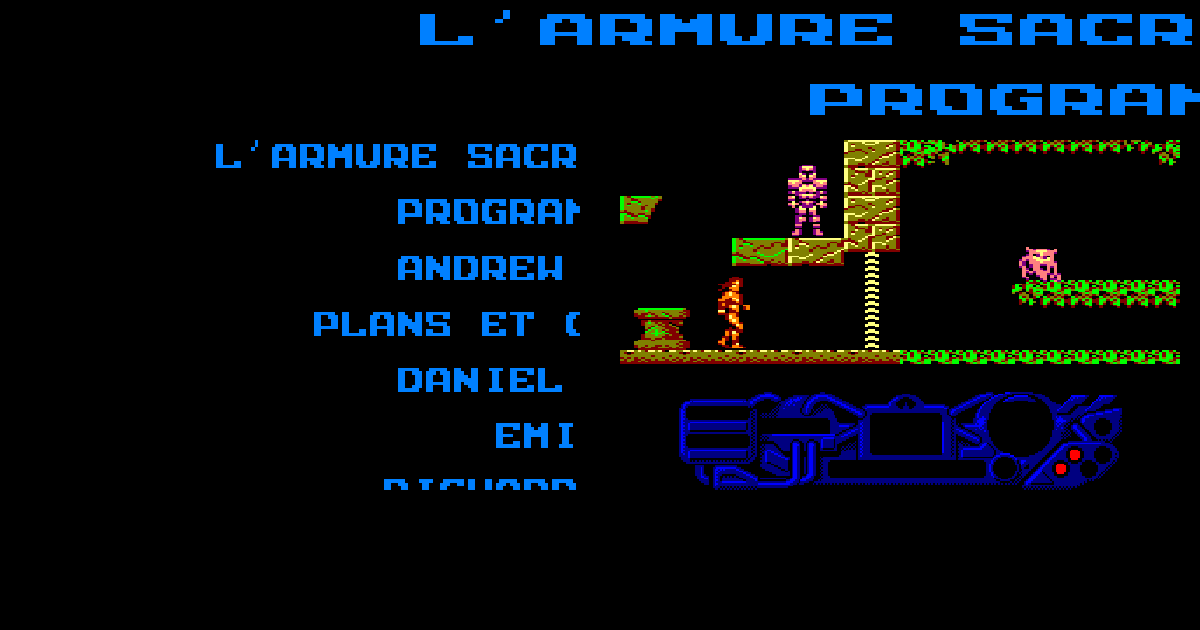
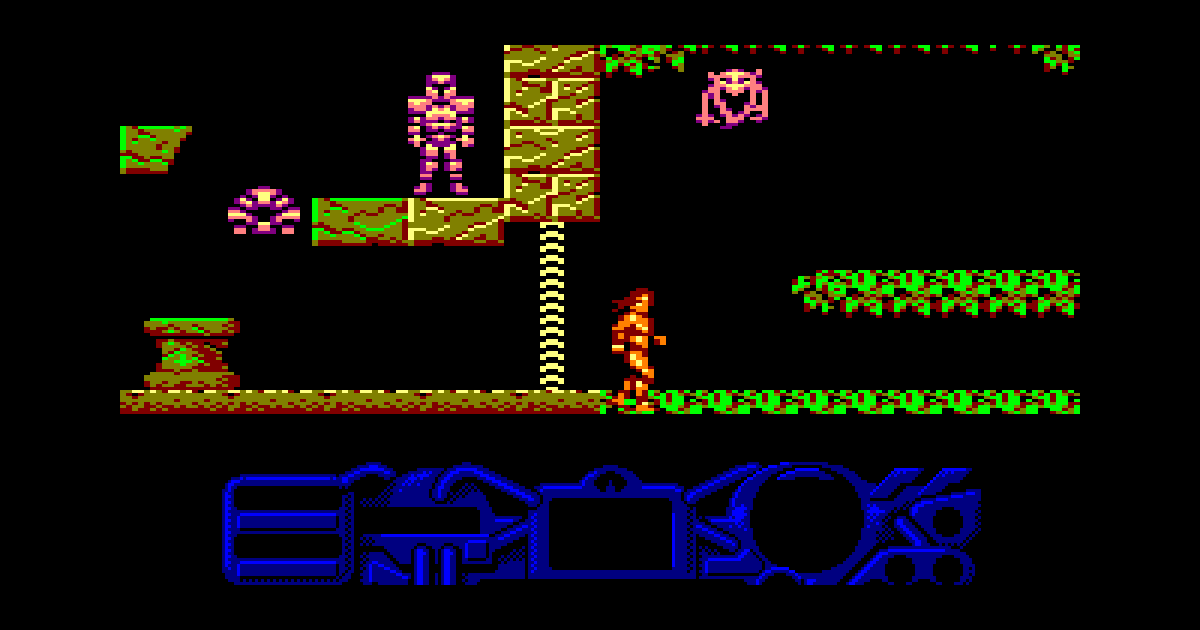
antiriad-php: the share picture (and the directory's) is a screen with the armour
Claude-Session: https://claude.ai/code/session_018nX3czTef4URLjjbUggjeZ

Changed region(s): [[0.0925, 0.0, 1.0, 0.9349], [0.2467, 0.4825, 0.37, 0.5429]]

diff --git a/games/antiriad-php/tools/site/images.py b/games/antiriad-php/tools/site/images.py
@@ -29,13 +29,11 @@ for name, n in (('sprite-tal', 9), ('sprite-suit', 101), ('sprite-armoured', 22)
     s = sprites[n]
     scaled(sheet.crop((s['x'], s['y'], s['x'] + s['w'], s['y'] + s['h'])), 4).save(f'{site}/{name}.png', optimize=True)
 
-# share card 1200 x 630 and favicon
+# share card 1200 x 630 (also the playground directory's picture): one screen of the game, the armour in it,
+# x3 from the CPC's 320 x 200, a 16:9 window of it, framed in black
 og = Image.new('RGB', (1200, 630), (0, 0, 0))
-title = scaled(load('title'), 2)
-game_shot = scaled(load('suit'), 2)
-og.paste(title.crop((0, 0, 640, 400)).resize((560, 350), Image.NEAREST), (20, 140))
-og.paste(game_shot.resize((560, 350), Image.NEAREST), (620, 140))
-og.paste(scaled(load('title'), 2).crop((0, 0, 640, 110)).resize((1200, 120), Image.NEAREST), (0, 10))
+screen = load('armour').resize((320, 200), Image.NEAREST)          # the shot is x2: back to the CPC pixels
+og.paste(scaled(screen.crop((0, 5, 320, 185)), 3), (120, 45))
 og.save(f'{site}/og.png', optimize=True)
 fav = sheet.crop((sprites[101]['x'], sprites[101]['y'], sprites[101]['x'] + 24, sprites[101]['y'] + 41))
 icon = Image.new('RGBA', (48, 48), (0, 0, 0, 255))
